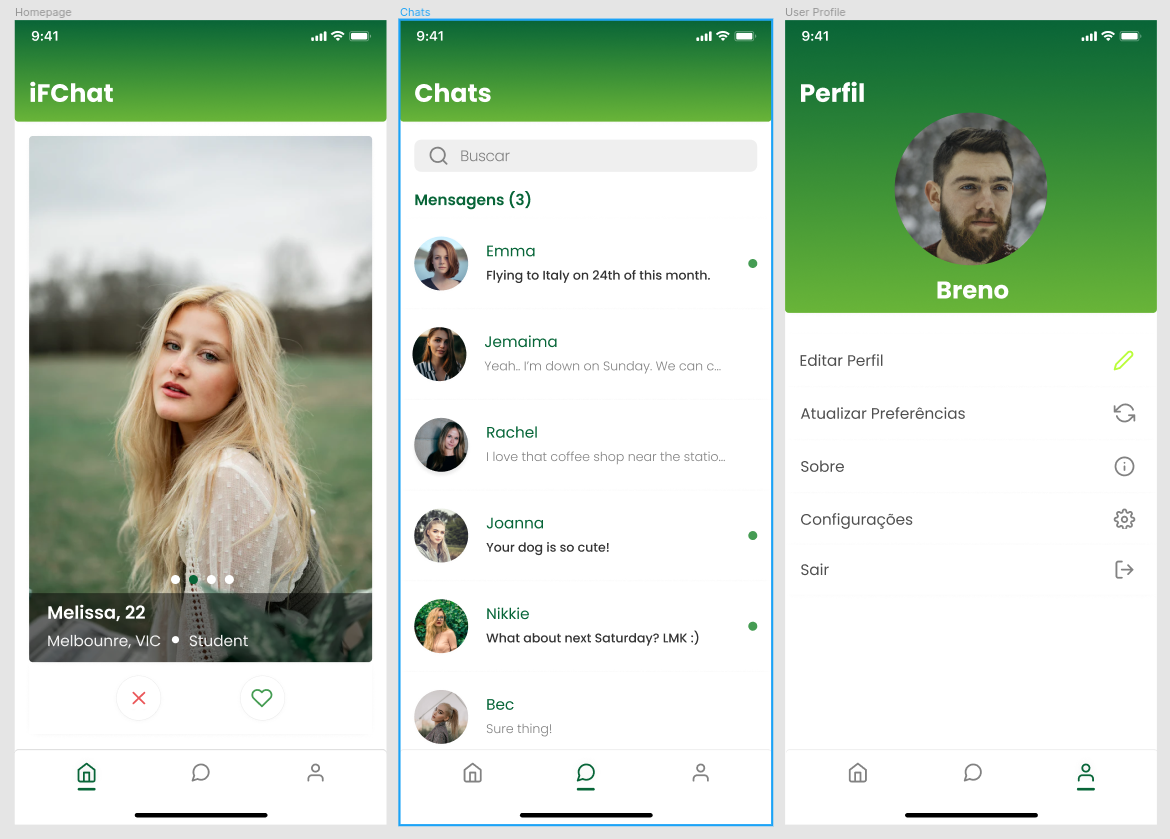
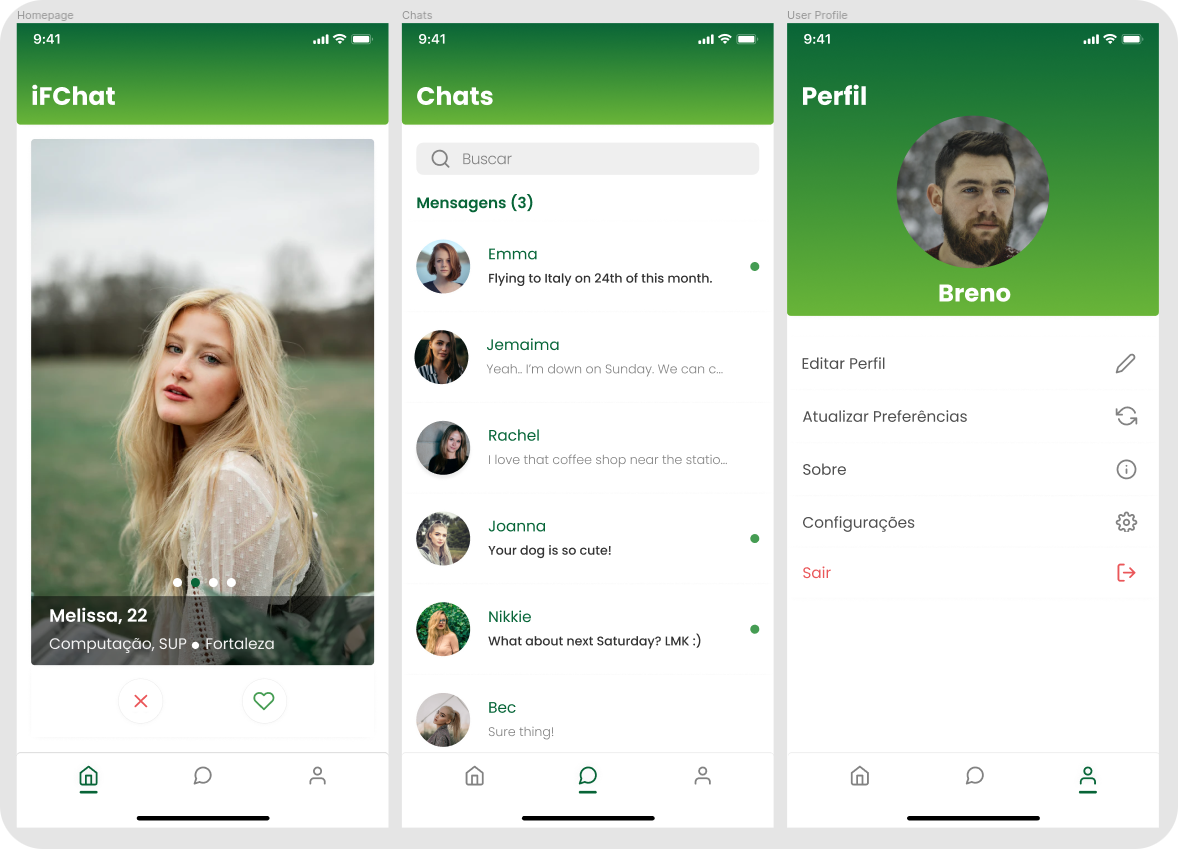
profile page layout

diff --git a/lib/app/modules/home/pages/profile/profile_page.dart b/lib/app/modules/home/pages/profile/profile_page.dart
@@ -1,7 +1,9 @@
 import 'package:flutter/material.dart';
-import 'package:flutter/scheduler.dart';
-import 'package:ifchat/app/modules/home/components/appbar_widget.dart';
-import 'package:vector_math/vector_math_64.dart' as vector;
+import 'package:ifchat/app/shared/colors/app_colors.dart';
+import 'package:ifchat/app/shared/enums/degree.dart';
+import 'package:ifchat/app/shared/enums/if.dart';
+import 'package:ifchat/app/shared/icons/app_icons.dart';
+import 'package:ifchat/app/shared/models/user_model.dart';
 
 class ProfilePage extends StatefulWidget {
   const ProfilePage({Key? key}) : super(key: key);
@@ -10,98 +12,130 @@ class ProfilePage extends StatefulWidget {
   _ProfilePageState createState() => _ProfilePageState();
 }
 
-class _ProfilePageState extends State<ProfilePage>
-    with SingleTickerProviderStateMixin {
-  late AnimationController _controller;
-  final key = GlobalKey();
-  double _stakCenterY = 0.0;
-
-  @override
-  void initState() {
-    super.initState();
-
-    _controller = AnimationController(
-      vsync: this,
-      // lowerBound: 0.0,
-      // upperBound: 2.0,
-      duration: const Duration(seconds: 5),
-    );
-
-    SchedulerBinding.instance!.addPostFrameCallback((_) {
-      _stakCenterY = _centerY();
-      _controller.repeat(reverse: true);
-    });
-  }
-
-  @override
-  void dispose() {
-    _controller.dispose();
-    super.dispose();
-  }
-
-  double _centerY() => key.currentContext!.size!.height / 2;
+class _ProfilePageState extends State<ProfilePage> {
+  final currentUser = UserModel(
+    course: 'Computação',
+    name: 'Breno',
+    photoUrl: 'https://picsum.photos/id/1005/300/400',
+    id: 'fg5g44g65dg4b4',
+    age: 21,
+    degree: Degree.sup,
+    ifce: If.fortaleza,
+  );
 
   @override
   Widget build(BuildContext context) {
-    final Widget alvo = Center(
-      child: Container(
-        width: 8,
-        height: 8,
-        decoration: const BoxDecoration(
-          color: Colors.black,
-          shape: BoxShape.circle,
-        ),
-      ),
+    const optionTextStyle = TextStyle(
+      fontSize: 17,
+      fontWeight: FontWeight.normal,
+      color: AppColors.ifGray,
     );
 
-    const Size size = Size(200, 200);
+    const headerTextStyle = TextStyle(
+      color: AppColors.ifWhite,
+      fontWeight: FontWeight.bold,
+      fontSize: 28,
+    );
 
     return Scaffold(
-      appBar: const AppBarWidget(title: 'Profile'),
-      body: Stack(
-        key: key,
-        alignment: AlignmentDirectional.topCenter,
-        children: [
-          AnimatedBuilder(
-            animation: _controller,
-            child: Container(
-              height: size.height,
-              width: size.width,
-              color: Colors.pink,
-              child: alvo,
-            ),
-            builder: (_, widget) {
-              return Transform(
-                origin: Offset(size.width / 2, size.height / 2),
-                transform: Matrix4.columns(
-                  vector.Vector4(1, 0, 0, 0),
-                  vector.Vector4(0, 1, 0, 0),
-                  vector.Vector4(0, 0, 1, 0),
-                  vector.Vector4(0, 0, 0, 1),
-
-                  // 1,0,0,0,
-                  // 0,1,0,0,
-                  // 0,0,1,0,
-                  // 0,0,0,1,
-                )
-                  ..translate(vector.Vector3(0, -size.height, 0))
-                  ..translate(vector.Vector3(0,
-                      _controller.value * (_stakCenterY + size.height / 2), 0)),
-
-                // ..rotateZ(math.acos(1 - _controller.value)),
-                child: widget,
-              );
-            },
-          ),
-          Center(
-            child: Container(
-              height: size.height,
-              width: size.width,
-              color: Colors.black.withOpacity(.4),
-              child: alvo,
+      appBar: PreferredSize(
+        preferredSize: const Size.fromHeight(320),
+        child: Container(
+          decoration: const BoxDecoration(
+            gradient: AppColors.ifLinearGradient,
+            borderRadius: BorderRadius.only(
+              bottomLeft: Radius.circular(8),
+              bottomRight: Radius.circular(8),
             ),
           ),
-          alvo,
+          child: Column(
+            children: [
+              Container(
+                height: 110,
+                alignment: Alignment.bottomLeft,
+                padding: const EdgeInsets.all(10),
+                child: const Text(
+                  'Profile',
+                  style: headerTextStyle,
+                ),
+              ),
+              CircleAvatar(
+                radius: 85,
+                backgroundImage: NetworkImage(currentUser.photoUrl),
+              ),
+              Padding(
+                padding: const EdgeInsets.symmetric(vertical: 8.0),
+                child: Text(
+                  currentUser.name,
+                  style: headerTextStyle,
+                ),
+              ),
+            ],
+          ),
+        ),
+      ),
+      body: ListView(
+        shrinkWrap: true,
+        children: <ListTile>[
+          ListTile(
+            title: const Text(
+              'Editar Perfil',
+              style: optionTextStyle,
+            ),
+            trailing: const Icon(
+              AppIcons.edit,
+              color: AppColors.ifGray,
+            ),
+            onTap: () {},
+          ),
+          ListTile(
+            title: const Text(
+              'Atualizar Preferências',
+              style: optionTextStyle,
+            ),
+            trailing: const Icon(
+              AppIcons.update,
+              color: AppColors.ifGray,
+            ),
+            onTap: () {},
+          ),
+          ListTile(
+            title: const Text(
+              'Sobre',
+              style: optionTextStyle,
+            ),
+            trailing: const Icon(
+              AppIcons.about,
+              color: AppColors.ifGray,
+            ),
+            onTap: () {},
+          ),
+          ListTile(
+            title: const Text(
+              'Configurações',
+              style: optionTextStyle,
+            ),
+            trailing: const Icon(
+              AppIcons.settings,
+              color: AppColors.ifGray,
+            ),
+            onTap: () {},
+          ),
+          ListTile(
+            title: const Text(
+              'Sair',
+              style: TextStyle(
+                fontSize: 17,
+                fontWeight: FontWeight.normal,
+                color: AppColors.ifRed,
+              ),
+            ),
+            trailing: const Icon(
+              AppIcons.logout,
+              color: AppColors.ifRed,
+            ),
+            onTap: () {},
+          ),
         ],
       ),
     );

diff --git a/lib/app/modules/home/components/user_card_widget.dart b/lib/app/modules/home/components/user_card_widget.dart
@@ -50,7 +50,11 @@ class _UserCardWidgetState extends State<UserCardWidget>
       vsync: this,
       duration: const Duration(seconds: 1),
     );
-    _animation = CurvedAnimation(parent: _controller, curve: Curves.easeInBack);
+
+    _animation = CurvedAnimation(
+      parent: _controller,
+      curve: Curves.easeInBack,
+    );
 
     SchedulerBinding.instance!.addPostFrameCallback((_) {
       final deviceWidth = MediaQuery.of(context).size.width;
@@ -71,6 +75,12 @@ class _UserCardWidgetState extends State<UserCardWidget>
     _controller.forward().then((_) {
       if (widget.onLeave != null) widget.onLeave!();
     });
+  }
+
+  @override
+  void dispose() {
+    _controller.dispose();
+    super.dispose();
   }
 
   @override
